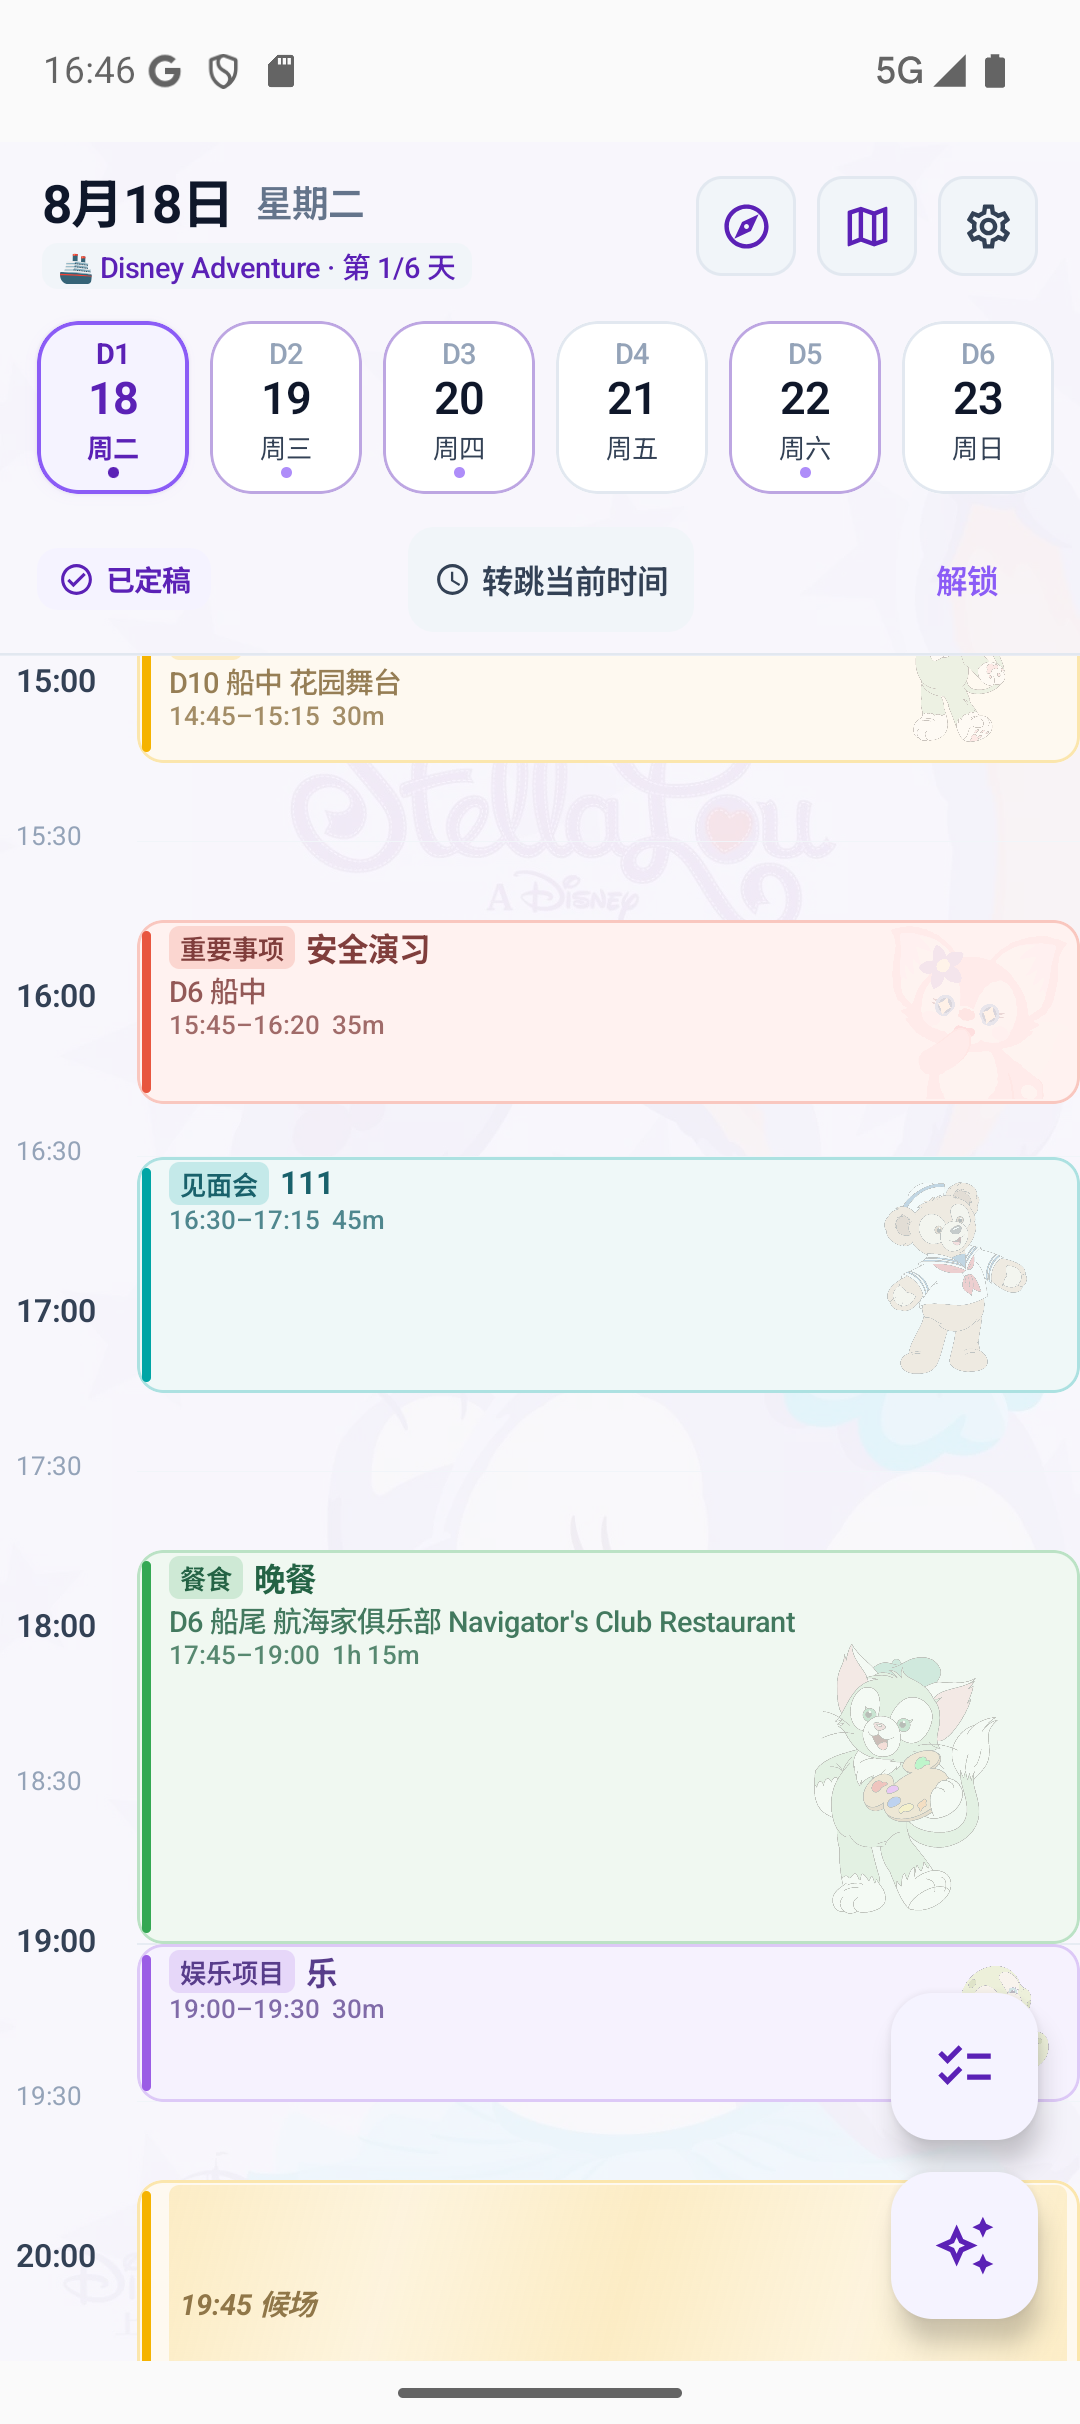
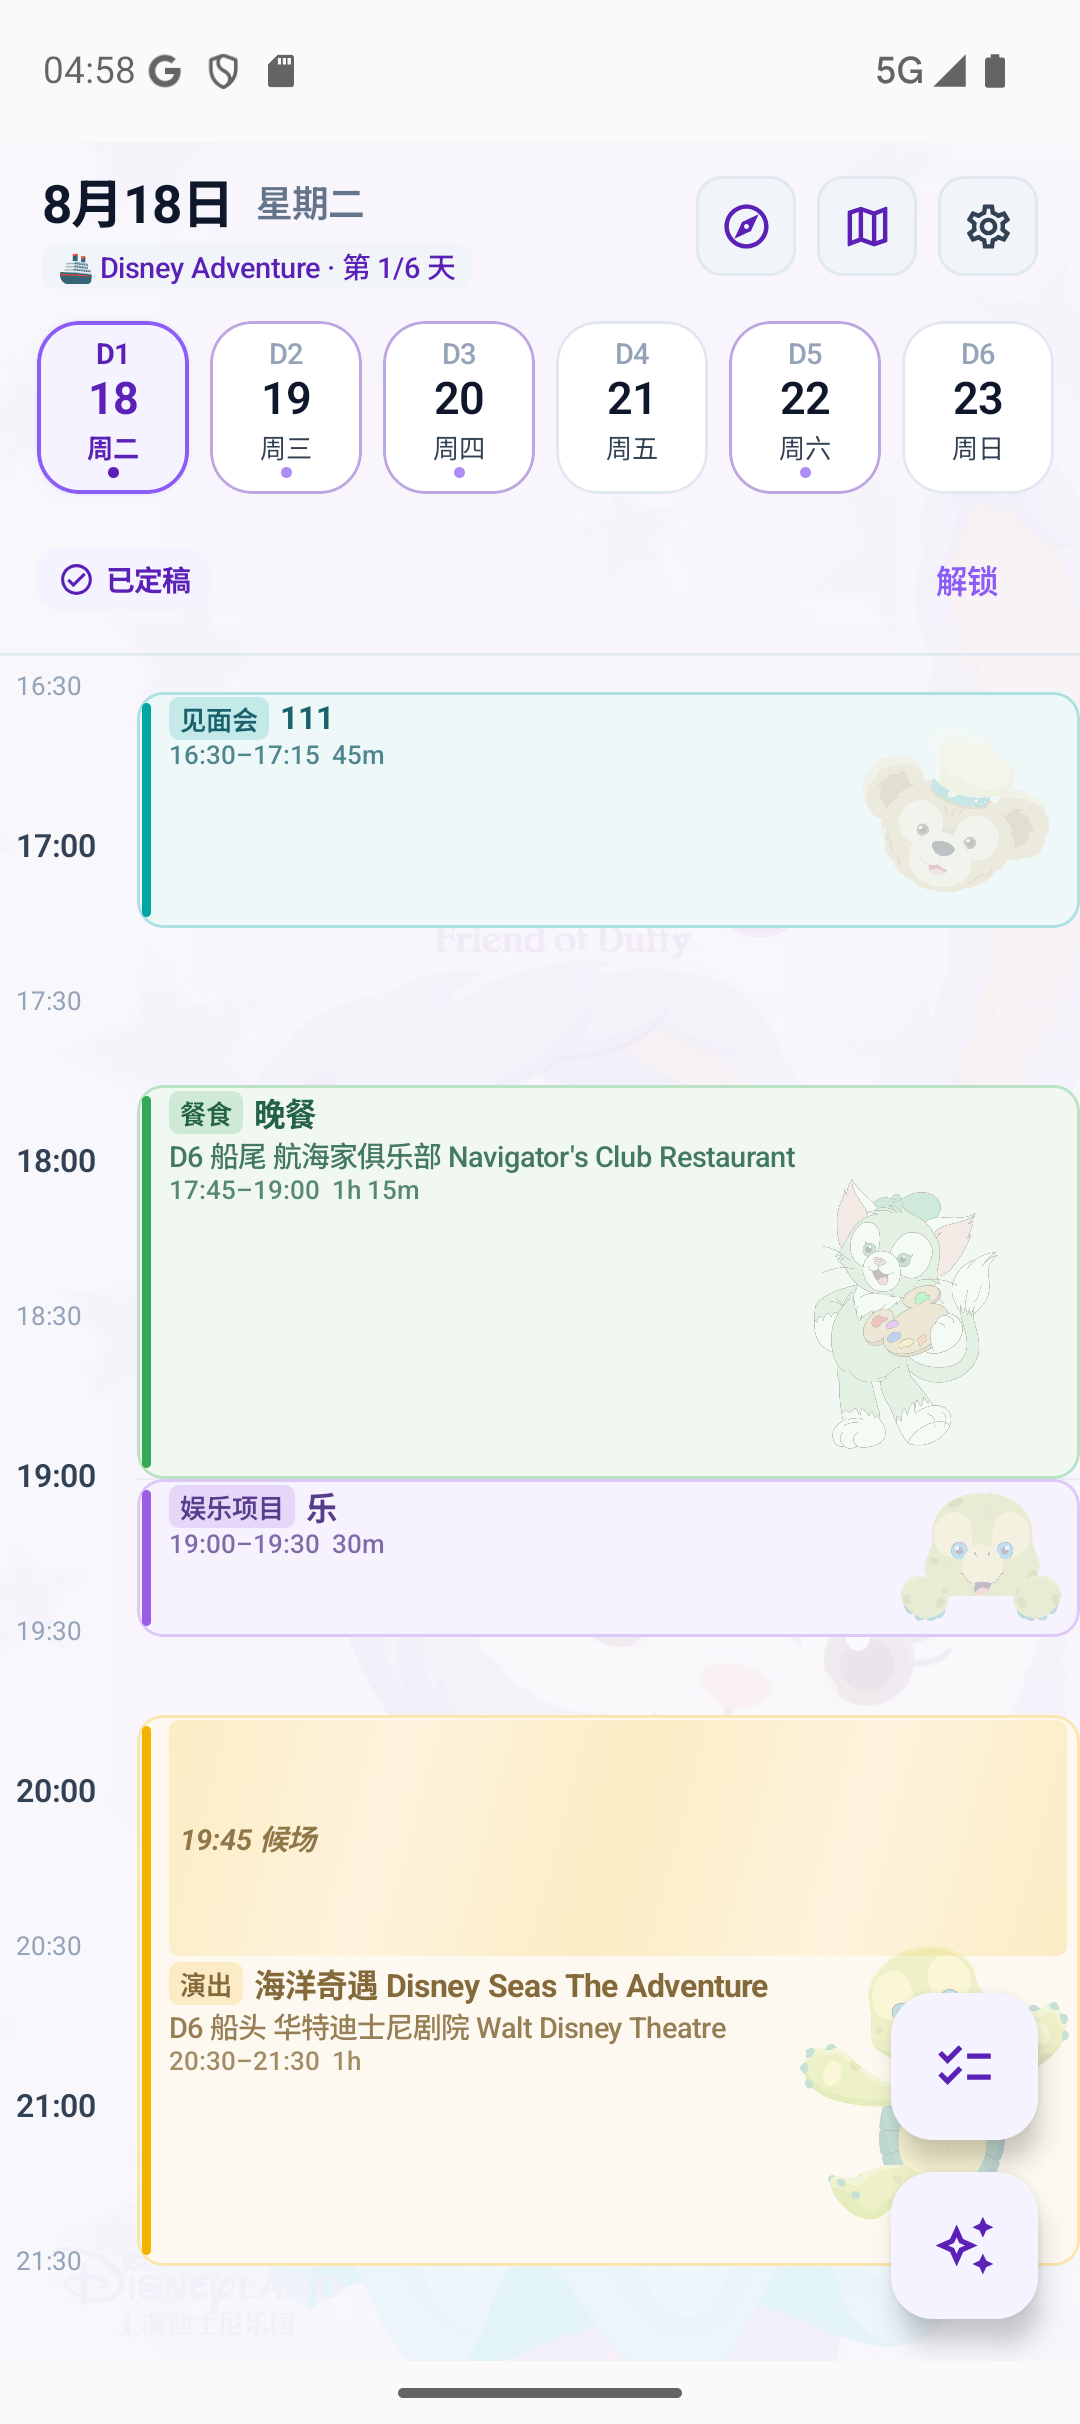
feat: adjust doll tier thresholds to <=30m head, <=55m half_body, >55m full_body

diff --git a/app/src/test/java/com/cruise/assistant/domain/DollManagerTest.kt b/app/src/test/java/com/cruise/assistant/domain/DollManagerTest.kt
@@ -9,15 +9,20 @@ class DollManagerTest {
 
     @Test
     fun dollTier_forCardHeight_thresholds() {
+        // 30分钟及以下 (<= 60dp, 钳制到61dp) -> HEAD
         assertEquals(DollTier.HEAD, DollTier.forCardHeight(0f))
         assertEquals(DollTier.HEAD, DollTier.forCardHeight(35f))
-        assertEquals(DollTier.HEAD, DollTier.forCardHeight(43.9f))
-        assertEquals(DollTier.HALF_BODY, DollTier.forCardHeight(44f))
-        assertEquals(DollTier.HALF_BODY, DollTier.forCardHeight(55f))
-        assertEquals(DollTier.HALF_BODY, DollTier.forCardHeight(71.9f))
-        assertEquals(DollTier.FULL_BODY, DollTier.forCardHeight(72f))
-        assertEquals(DollTier.FULL_BODY, DollTier.forCardHeight(90f))
+        assertEquals(DollTier.HEAD, DollTier.forCardHeight(60f))
+        assertEquals(DollTier.HEAD, DollTier.forCardHeight(61f))
+        // 55分钟及以下 (31~55分钟，62dp ~ 110dp) -> HALF_BODY
+        assertEquals(DollTier.HALF_BODY, DollTier.forCardHeight(62f))
+        assertEquals(DollTier.HALF_BODY, DollTier.forCardHeight(90f))
+        assertEquals(DollTier.HALF_BODY, DollTier.forCardHeight(110f))
+        assertEquals(DollTier.HALF_BODY, DollTier.forCardHeight(111f))
+        // 55分钟以上 (> 111dp) -> FULL_BODY
+        assertEquals(DollTier.FULL_BODY, DollTier.forCardHeight(112f))
         assertEquals(DollTier.FULL_BODY, DollTier.forCardHeight(150f))
+        assertEquals(DollTier.FULL_BODY, DollTier.forCardHeight(200f))
     }
 
     @Test
@@ -65,22 +70,22 @@ class DollManagerTest {
     }
 
     @Test
-    fun shortCard_under44dp_returnsHeadAsset() {
-        // Cards < 44dp get HEAD tier
+    fun shortCard_30minAndUnder_returnsHeadAsset() {
+        // Cards <= 61dp (<= 30 min) get HEAD tier
         for (eventId in 1L..100L) {
-            val asset = DollManager.selectDollForCard(eventId = eventId, cardHeightDp = 35f)
+            val asset = DollManager.selectDollForCard(eventId = eventId, cardHeightDp = 50f)
             assertNotNull("Asset must not be null for event $eventId", asset)
             val tier = DollManager.getTierForAsset(asset!!)
             // Every character has at least 1 head asset, so it should always resolve to HEAD
-            assertEquals("Short card (35dp) should select HEAD tier for event $eventId", DollTier.HEAD, tier)
+            assertEquals("Short card (50dp) should select HEAD tier for event $eventId", DollTier.HEAD, tier)
         }
     }
 
     @Test
-    fun mediumCard_44to72dp_returnsHalfBodyOrFallback() {
-        // Cards between 44dp and 72dp prefer HALF_BODY, fallback to HEAD then FULL_BODY
+    fun mediumCard_31to55min_returnsHalfBodyOrFallback() {
+        // Cards between 62dp and 111dp (31~55 min) prefer HALF_BODY, fallback to HEAD then FULL_BODY
         for (eventId in 1L..100L) {
-            val asset = DollManager.selectDollForCard(eventId = eventId, cardHeightDp = 55f)
+            val asset = DollManager.selectDollForCard(eventId = eventId, cardHeightDp = 90f)
             assertNotNull("Asset must not be null for event $eventId", asset)
             val char = DollManager.getCharacterForAsset(asset!!)
             assertNotNull(char)
@@ -102,14 +107,14 @@ class DollManagerTest {
     }
 
     @Test
-    fun largeCard_72dpAndAbove_returnsFullBodyAsset() {
-        // Cards >= 72dp get FULL_BODY tier
+    fun largeCard_over55min_returnsFullBodyAsset() {
+        // Cards > 111dp (> 55 min) get FULL_BODY tier
         for (eventId in 1L..100L) {
-            val asset = DollManager.selectDollForCard(eventId = eventId, cardHeightDp = 90f)
+            val asset = DollManager.selectDollForCard(eventId = eventId, cardHeightDp = 150f)
             assertNotNull("Asset must not be null for event $eventId", asset)
             val tier = DollManager.getTierForAsset(asset!!)
             // Every character has full_body assets, so it should always resolve to FULL_BODY
-            assertEquals("Large card (90dp) should select FULL_BODY tier for event $eventId", DollTier.FULL_BODY, tier)
+            assertEquals("Large card (150dp) should select FULL_BODY tier for event $eventId", DollTier.FULL_BODY, tier)
         }
     }
 

diff --git a/app/src/main/java/com/cruise/assistant/domain/DollModels.kt b/app/src/main/java/com/cruise/assistant/domain/DollModels.kt
@@ -26,9 +26,9 @@ enum class DollTier(val folderName: String) {
 
     companion object {
         fun forCardHeight(heightDp: Float): DollTier = when {
-            heightDp < 44f -> HEAD
-            heightDp < 72f -> HALF_BODY
-            else -> FULL_BODY
+            heightDp <= 61f -> HEAD       // 30 分钟及以下 (<= 60dp)
+            heightDp <= 111f -> HALF_BODY // 31~55 分钟 (61dp ~ 110dp)
+            else -> FULL_BODY             // 55 分钟以上 (> 110dp)
         }
     }
 }
